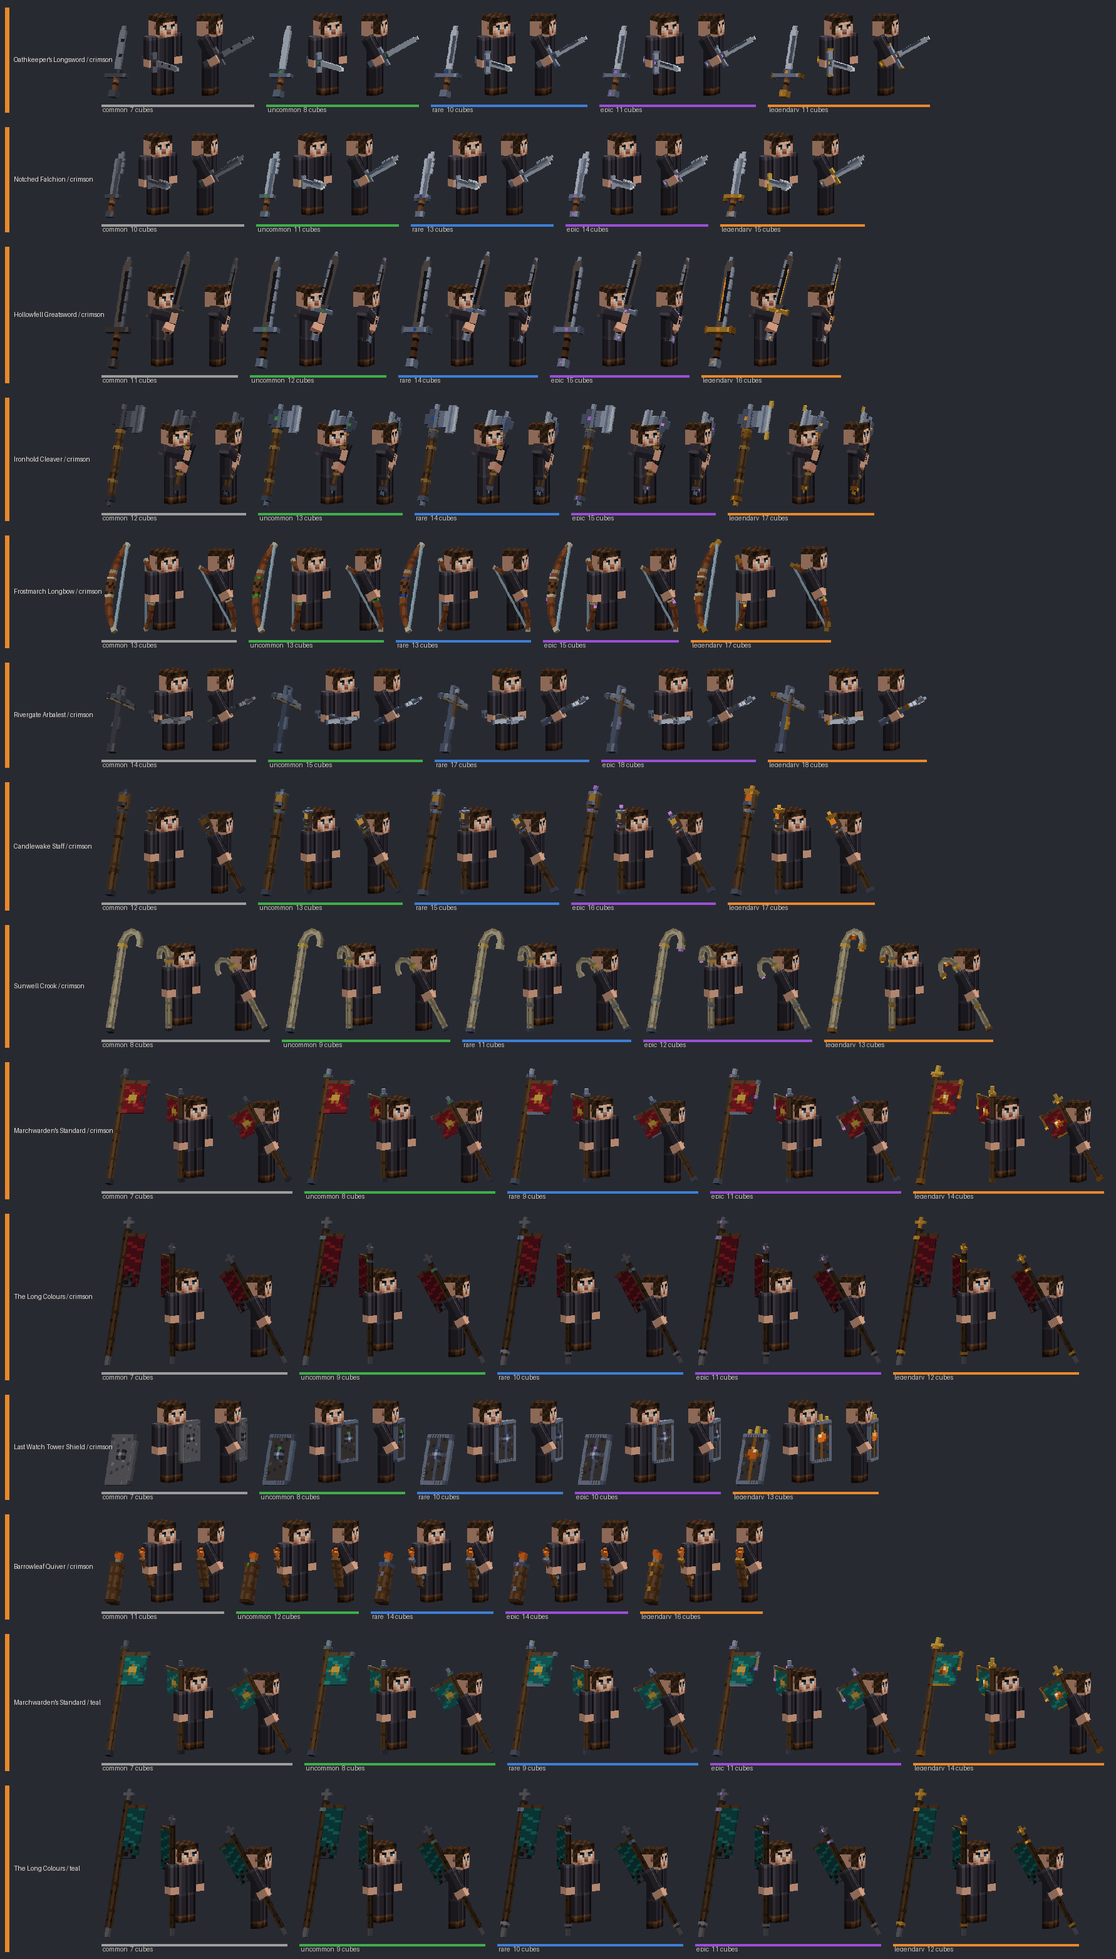
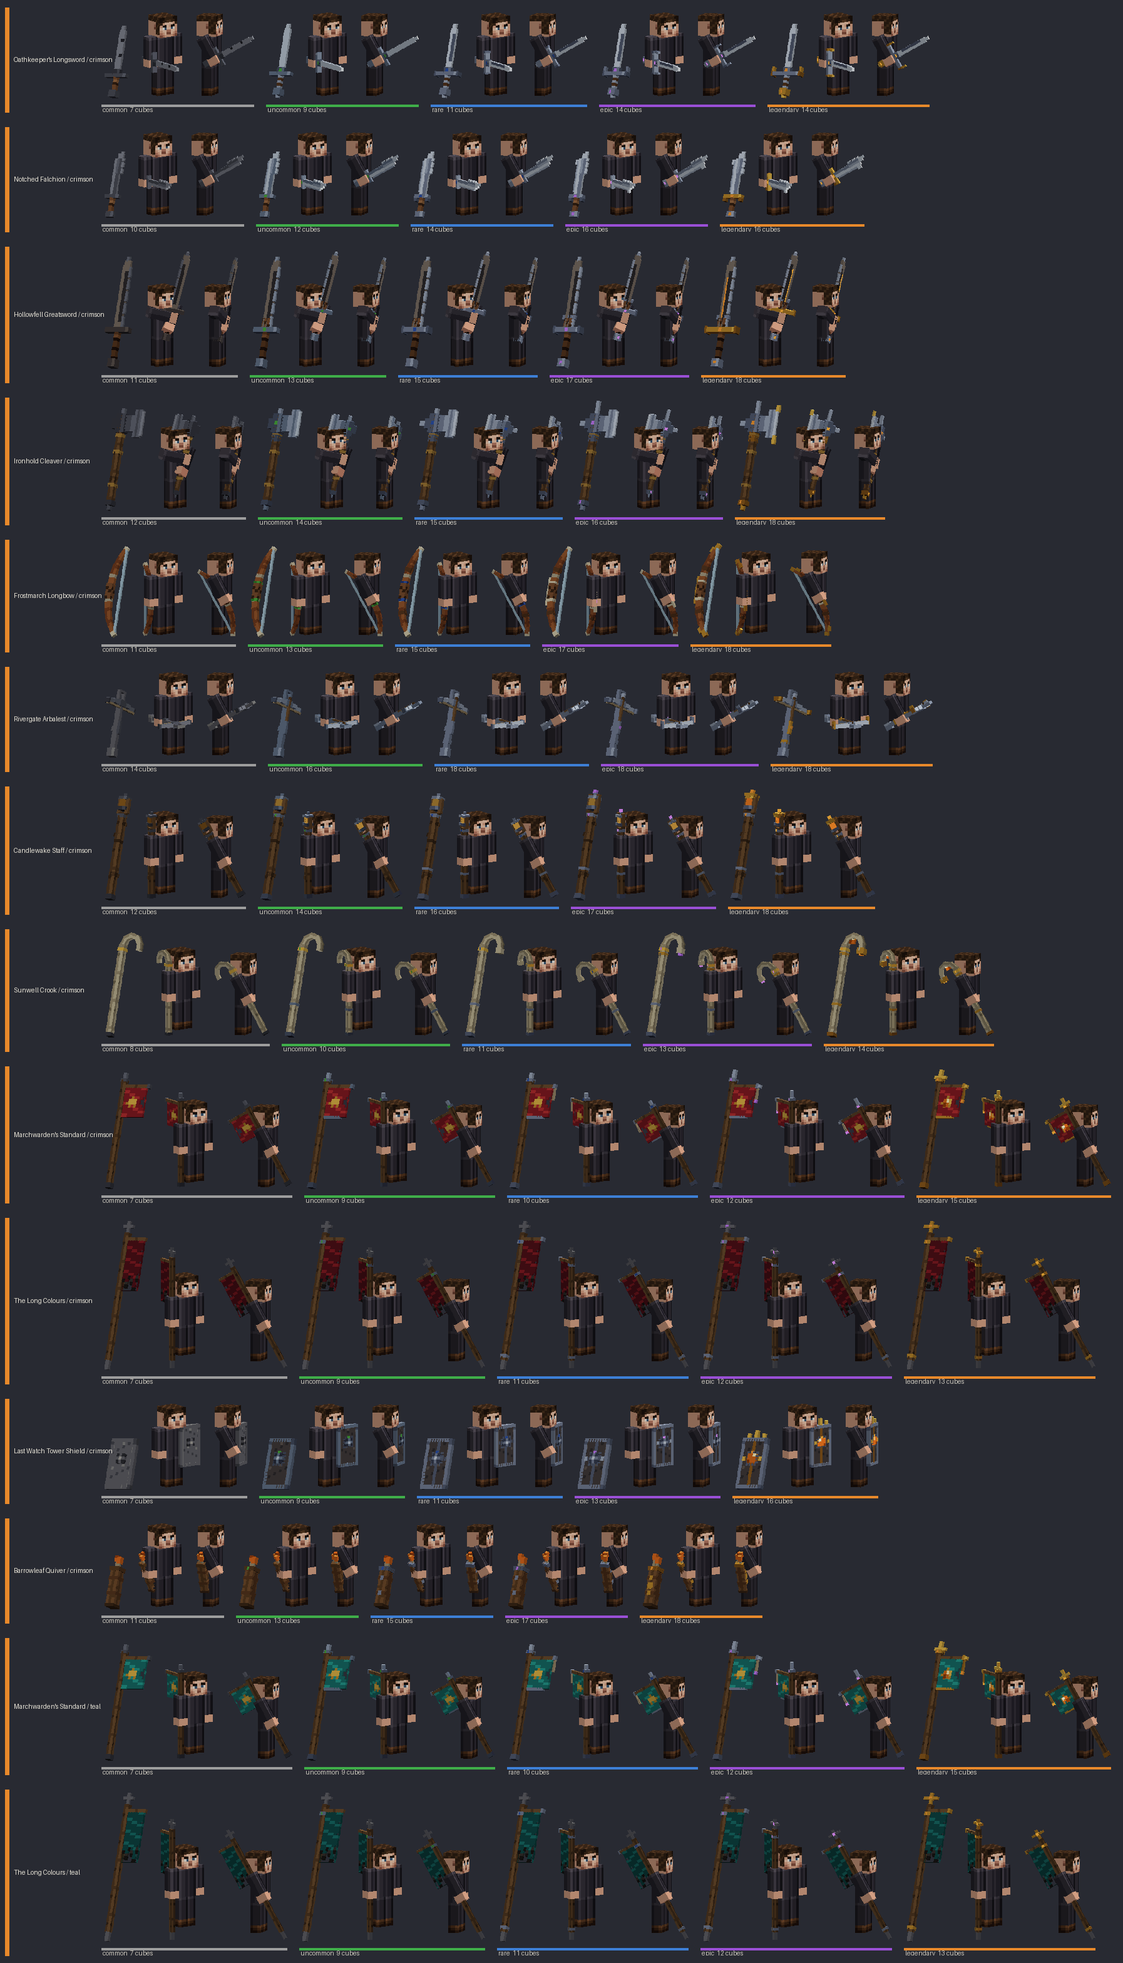
Give every weapon one change in build per rarity step, and lift the dark greatsword, crossbow and colours pole
Following the weapon art review: each tier now adds a wrap, guard, plate, spike or fitting
instead of only a colour, and test_tiers_change_shape checks adjacent tiers differ in shape.

diff --git a/art/hand/gear/weapons/crossbow.py b/art/hand/gear/weapons/crossbow.py
@@ -7,8 +7,8 @@ def make(r, side):
     M, F = metal_of(r), fit_of(r)
     S = IRON if r == COMMON else M
     z1, z2 = (4.5, 7) if r < LEGEND else (5, 8)
-    c = [Cube("stock", [-0.8, -5, -0.7], [0.8, 10, 0.7], "iron", tone(S, 2)),
-         Cube("butt", [-1.5, -7.5, -1], [1.2, -4.95, 1], "iron", tone(S, 2)),
+    c = [Cube("stock", [-0.8, -5, -0.7], [0.8, 10, 0.7], "iron", tone(S, 3)),
+         Cube("butt", [-1.5, -7.5, -1], [1.2, -4.95, 1], "iron", tone(S, 3)),
          Cube("lock", [0.75, 0, -0.5], [1.4, 4.05, 0.5], "steel", tone(F, 3)),
          Cube("trigger", [-1.6, 1, -0.3], [-0.75, 2.5, 0.3], "iron", tone(S, 3, lead=False)),
          Cube("prod", [-1, 9, -1.5], [1.2, 11, 1.5], "steel", tone(M, 3))]
@@ -16,16 +16,16 @@ def make(r, side):
         zz = lambda a, b: (min(s * a, s * b), max(s * a, s * b))
         a, b = zz(1.45, z1); c.append(Cube("limb1" + n, [-0.6, 9.4, a], [0.8, 10.6, b], "steel", tone(M, 4)))
         a, b = zz(z1 - 0.05, z2); c.append(Cube("limb2" + n, [-0.5, 9.0, a], [0.7, 10.2, b], "steel", tone(M, 4)))
-        a, b = zz(z2 - 0.05, z2 + 0.6); c.append(Cube("cap" + n, [-0.7, 8.6, a], [0.9, 9.9, b], "steel", tone(F, 2)))
+        a, b = zz(z2 - 0.05, z2 + 0.6); c.append(Cube("cap" + n, [-0.7, 8.6, a], [0.9 if r < EPIC else 2.2, 9.9, b], "steel", tone(F, 2)))
     c.append(Cube("string", [0.1, 8.3, -z2 - 0.3], [0.7, 8.9, z2 + 0.3], "cloth", tone(LINEN, 2, lead=False)))
     c += [Cube("stir_f", [-0.5, 13.5, -1.6], [0.5, 14.2, 1.6], "iron", tone(S, 3, lead=False)),
           Cube("stir_l", [-0.5, 10.95, 1.0], [0.5, 14.2, 1.6], "iron", tone(S, 3, lead=False)),
           Cube("stir_r", [-0.5, 10.95, -1.6], [0.5, 14.2, -1.0], "iron", tone(S, 3, lead=False))]
+    if r >= UNCOMMON: c.append(Cube("bolt", [0.75, 4, -0.3], [1.35, 12, 0.3], "wood", grain(OAK, 3)))
     if r >= RARE:
-        c += [Cube("bolt", [0.75, 4, -0.3], [1.35, 12, 0.3], "wood", grain(OAK, 3)),
-              Cube("bolt_head", [0.6, 11.95, -0.5], [1.5, 13.2, 0.5], "steel", tone(M, 4, lead=False))]
-    c += bead("bead", [-0.4, 9.6, -1.7], [0.6, 10.4, 1.7], r)
-    if r >= EPIC: c += bead("lock_gem", [1.3, 1.5, -0.4], [1.7, 2.5, 0.4], r)
+        c += [Cube("bolt_head", [0.6, 11.95, -0.5], [1.5, 13.2, 0.5], "steel", tone(M, 4, lead=False)),
+              Cube("brace", [-0.95, -3.2, -0.85], [0.95, -2.2, 0.85], "iron", tone(F, 3, lead=False))]
+    c += bead("bead", [-0.4, 9.6, -1.7], [0.6, 10.4, 1.7], r) if r < EPIC else bead("lock_gem", [1.3, 1.5, -0.4], [1.7, 2.5, 0.4], r)
     return c
 
 def weapon(): return Weapon("crossbow", make, "blade", note="short iron stock, thick steel limbs, stirrup at the front")

diff --git a/art/hand/gear/weapons/hunting_bow.py b/art/hand/gear/weapons/hunting_bow.py
@@ -13,15 +13,23 @@ def make(r, side):
     c = [Cube("grip", [-1, -2.5, -1], [1, 2.5, 1], "leather", wound(LEATH, 2))]
     c += chain("up", (0, 2.45), LEN, LEAN, WIDE, 1.2, "wood", paints); tx, ty = chain.end
     c += chain("dn", (0, 2.45), LEN, LEAN, WIDE, 1.2, "wood", paints, mirror=True)
-    c += [Cube("collar_u", [-1.15, 2.4, -0.8], [1.15, 3.2, 0.8], "bone", col),
-          Cube("collar_d", [-1.15, -3.2, -0.8], [1.15, -2.4, 0.8], "bone", col)]
+    if r >= UNCOMMON:
+        c += [Cube("collar_u", [-1.15, 2.4, -0.8], [1.15, 3.2, 0.8], "bone", col),
+              Cube("collar_d", [-1.15, -3.2, -0.8], [1.15, -2.4, 0.8], "bone", col)]
+    if r >= RARE:
+        for seg in (c[2], c[6]):
+            cx, cy = seg.pivot[0], seg.pivot[1]
+            c.append(Cube(seg.name + "_wrap", [cx - 1.15, cy - 0.7, -0.75], [cx + 1.15, cy + 0.7, 0.75], "bone",
+                          bands(BONEM, 2, 2, LEATH, 2), turn=seg.turn, pivot=[cx, cy, 0]))
+    if r >= EPIC:
+        c.append(Cube("plate", [-1.6, -4.5, -0.6], [-0.95, 4.5, 0.6], "gilt" if r == LEGEND else "bone",
+                      tone(GOLD if r == LEGEND else BONEM, 3, lead=False)))
     T, up = (GOLD, 1.6) if r == LEGEND else (BONEM, 0.9)
     c += [Cube("nock_u", [tx - 0.75, ty - 0.6, -0.6], [tx + 0.6, ty + up, 0.6], "bone", tone(T, 3, lead=False), turn=-34, pivot=[tx, ty, 0]),
           Cube("nock_d", [tx - 0.75, -ty - up, -0.6], [tx + 0.6, -ty + 0.6, 0.6], "bone", tone(T, 3, lead=False), turn=34, pivot=[tx, -ty, 0])]
     sx = tx + 0.25
     c.append(Cube("string", [sx - 0.3, -ty, -0.3], [sx + 0.3, ty, 0.3], "cloth", tone(FROST, 1, lead=False)))
-    if r >= EPIC:
-        c += bead("gem_u", [-1.35, 3.6, -0.5], [-0.75, 4.6, 0.5], r) + bead("gem_d", [-1.35, -4.6, -0.5], [-0.75, -3.6, 0.5], r)
+    if r == EPIC: c += bead("gem", [-1.85, -0.6, -0.4], [-1.55, 0.6, 0.4], r)
     if r == LEGEND:
         c += [Cube("horn_u", [tx - 1.5, ty - 2.2, -0.5], [tx - 0.6, ty - 0.4, 0.5], "gilt", tone(GOLD, 3, lead=False), turn=-34, pivot=[tx, ty, 0]),
               Cube("horn_d", [tx - 1.5, -ty + 0.4, -0.5], [tx - 0.6, -ty + 2.2, 0.5], "gilt", tone(GOLD, 3, lead=False), turn=34, pivot=[tx, -ty, 0])]

diff --git a/art/hand/gear/weapons/greatsword.py b/art/hand/gear/weapons/greatsword.py
@@ -6,19 +6,23 @@ from last_watch import BLACK
 def make(r, side):
     F = BLACK if r == COMMON else fit_of(r)
     E = metal_of(r)
+    g = 5.4 if r == LEGEND else 4.5
     c = [Cube("pommel", [-1.3, -9.5, -1.3], [1.3, -6.95, 1.3], "iron", tone(BLACK if r == COMMON else metal_of(r), 3)),
          Cube("grip", [-0.7, -7.05, -0.7], [0.7, 2.05, 0.7], "leather", wound(LEATH, 1, rub=1)),
-         Cube("guard", [-4.5, 2, -1], [4.5, 3.5, 1], "iron", tone(F, 3)),
-         Cube("blade", [-1.5, 3.45, -0.5], [1, 24.05, 0.5], "iron", blade(BLACK, 3, fuller=True)),
-         Cube("point", [-1.1, 24, -0.4], [1.1, 25.6, 0.4], "iron", blade(BLACK, 3)),
+         Cube("guard", [-g, 2, -1], [g, 3.5, 1], "iron", tone(F, 3)),
+         Cube("blade", [-1.5, 3.45, -0.5], [1, 24.05, 0.5], "iron", blade(BLACK, 4, fuller=True)),
+         Cube("point", [-1.1, 24, -0.4], [1.1, 25.6, 0.4], "iron", blade(BLACK, 4)),
          Cube("tip", [-0.5, 25.55, -0.3], [0.5, 27, 0.3], "steel", tone(E, 4, lead=False))]
     for i, a in enumerate((4, 8.3, 12.3, 16.3, 20.3)):
         c.append(Cube("edge%d" % i, [0.95, a, -0.35], [1.6, a + 3.2, 0.35], "steel", tone(E, 4, lead=False)))
+    if r >= UNCOMMON: c.append(Cube("ricasso", [-1.7, 3.45, -0.65], [1.2, 6.5, 0.65], "leather", wound(LEATH, 2)))
     if r >= RARE:
-        c += [Cube("end_l", [-5.1, 1.7, -1.2], [-4.45, 3.8, 1.2], "iron", tone(F, 2)),
-              Cube("end_r", [4.45, 1.7, -1.2], [5.1, 3.8, 1.2], "iron", tone(F, 2))]
+        c += [Cube("end_l", [-g - 0.6, 1.7, -1.2], [-g + 0.05, 3.8, 1.2], "iron", tone(F, 2)),
+              Cube("end_r", [g - 0.05, 1.7, -1.2], [g + 0.6, 3.8, 1.2], "iron", tone(F, 2))]
     c += bead("bead", [-0.5, 2.3, -1.2], [0.5, 3.2, 1.2], r)
-    if r >= EPIC: c += bead("pommel_gem", [-0.5, -8.8, -1.45], [0.5, -7.8, 1.45], r)
+    if r >= EPIC:
+        c.append(Cube("lugs", [-2.6, 6.45, -0.4], [2.1, 7.6, 0.4], "iron", tone(E, 3, lead=False)))
+        c += bead("pommel_gem", [-0.5, -8.8, -1.45], [0.5, -7.8, 1.45], r)
     if r == LEGEND: c.append(Cube("inlay", [-0.75, 6, -0.6], [0.05, 20, 0.6], "gem", tone(SUN, 2, lead=False), lit=W.FACES))
     return c
 

diff --git a/art/hand/gear/weapons/mending_staff.py b/art/hand/gear/weapons/mending_staff.py
@@ -11,15 +11,16 @@ def make(r, side):
          Cube("knot1", [-0.5, -8, -1.25], [1.3, -6.8, 1.25], "wood", grain(OAK, 2, salt=5)),
          Cube("knot2", [-1.3, 9, -0.6], [1.25, 10, 1.3], "wood", grain(OAK, 2, salt=1)),
          Cube("ferrule", [-1.2, -15.5, -1.2], [1.2, -13.95, 1.2], "iron", tone(metal_of(r), 2)),
-         Cube("tine_l", [-2, 12.95, -0.6], [-0.95, 17.6, 0.6], "wood", grain(OAK, 3, salt=2)),
-         Cube("tine_r", [0.95, 12.95, -0.6], [2, 17.6, 0.6], "wood", grain(OAK, 3, salt=6)),
+         Cube("tine_l", [-2, 12.95, -0.6], [-0.95, 17.6 if r < EPIC else 19, 0.6], "wood", grain(OAK, 3, salt=2)),
+         Cube("tine_r", [0.95, 12.95, -0.6], [2, 17.6 if r < EPIC else 19, 0.6], "wood", grain(OAK, 3, salt=6)),
          Cube("collar", [-1.2, 11.5, -1.2], [1.2, 12.5, 1.2], "iron", tone(metal_of(r), 3)),
          Cube("base", [-1.5, 14, -1.5], [1.5, 15, 1.5], "iron", tone(metal_of(r), 2)),
          Cube("glass", [-1.1, 14.95, -1.1], [1.1, 17.55, 1.1], "gem", tone(G, 2 if r > COMMON else 1, lead=False), lit=W.FACES if r > COMMON else ()),
          Cube("cap", [-1.5, 17.5, -1.5], [1.5, 18.3, 1.5], "iron", tone(F, 3)),
          Cube("ring", [-0.4, 18.25, -0.3], [0.4, 19.5, 0.3], "iron", tone(F, 3, lead=False))]
+    if r >= UNCOMMON: c.append(Cube("cage_a", [-0.25, 15, -1.25], [0.25, 17.55, 1.25], "iron", tone(F, 1, lead=False)))
     if r >= RARE:
-        c += [Cube("cage_a", [-0.25, 15, -1.25], [0.25, 17.55, 1.25], "iron", tone(F, 1, lead=False)),
+        c += [Cube("band", [-1.2, -6, -1.2], [1.2, -5.2, 1.2], "iron", tone(metal_of(r), 3, lead=False)),
               Cube("cage_b", [-1.25, 15, -0.25], [1.25, 17.55, 0.25], "iron", tone(F, 1, lead=False))]
     c += bead("bead", [-0.5, 11.7, -1.4], [0.5, 12.3, 1.4], r)
     if r >= EPIC: c += bead("finial", [-0.5, 19.45, -0.5], [0.5, 20.5, 0.5], r)

diff --git a/art/hand/gear/weapons/long_colours.py b/art/hand/gear/weapons/long_colours.py
@@ -15,15 +15,16 @@ def char(x, y, w, h):
 def make(r, side):
     F = IRON if r == COMMON else fit_of(r)
     X = GOLD if r == LEGEND else IRON
-    c = [Cube("pole", [-0.8, -16, -0.8], [0.8, 26, 0.8], "wood", grain(OAK, 2)),
+    c = [Cube("pole", [-0.8, -16, -0.8], [0.8, 26, 0.8], "wood", grain(OAK, 3)),
          Cube("spike", [-0.6, -19, -0.6], [0.6, -15.95, 0.6], "iron", tone(IRON, 3)),
          Cube("spike_tip", [-0.25, -20.5, -0.25], [0.25, -18.95, 0.25], "iron", tone(IRON, 4, lead=False)),
-         Cube("crossbar", [0.75, 23.5, -0.5], [7.5, 24.5, 0.5], "wood", grain(OAK, 2, salt=4)),
+         Cube("crossbar", [0.75, 23.5, -0.5], [7.5, 24.5, 0.5], "wood", grain(OAK, 3, salt=4)),
          Cube("flag", [0.85, 7, -0.3], [7, 23.55, 0.3], "cloth", cloth(side, 1, cut=tatter, device=char)),
          Cube("cross", [-0.4, 25.95, -0.4], [0.4, 30, 0.4], "iron", tone(X, 3, lead=False)),
-         Cube("cross_bar", [-1.8, 27.8, -0.45], [1.8, 28.6, 0.45], "iron", tone(X, 3, lead=False))]
+         Cube("cross_bar", [-1.8 if r < EPIC else -2.6, 27.8, -0.45], [1.8 if r < EPIC else 2.6, 28.6, 0.45], "iron", tone(X, 3, lead=False))]
     if r >= UNCOMMON: c.append(Cube("collar", [-1, 22.4, -1], [1, 23.45, 1], "iron", tone(F, 3)))
-    if r >= RARE: c.append(Cube("collar_lo", [-1, -15.2, -1], [1, -14.2, 1], "iron", tone(F, 3)))
+    if r >= RARE: c += [Cube("collar_lo", [-1, -15.2, -1], [1, -14.2, 1], "iron", tone(F, 3)),
+                        Cube("bar_cap", [7.45, 23.3, -0.7], [8.2, 24.7, 0.7], "iron", tone(F, 3, lead=False))]
     c += bead("bead", [-0.4, 22.6, -1.2], [0.4, 23.3, 1.2], r)
     if r >= EPIC: c += bead("cross_gem", [-0.5, 27.7, -0.55], [0.5, 28.7, 0.55], r)
     if r == LEGEND: c.append(Cube("fringe", [0.85, 23.2, -0.35], [7, 23.6, 0.35], "gilt", tone(GOLD, 4, lead=False)))

diff --git a/art/hand/gear/weapons/arming_sword.py b/art/hand/gear/weapons/arming_sword.py
@@ -8,17 +8,21 @@ def make(r, side):
     g = 5 if r == LEGEND else 4
     nicks = (3, 8) if r == COMMON else ()
     c = [Cube("pommel", [-1.2, -4.5, -1.2], [1.2, -2.45, 1.2], "steel", tone(F, 3)),
-         Cube("grip", [-0.6, -2.5, -0.6], [0.6, 2.05, 0.6], "leather", wound(LEATH, 2, rub=1)),
+         Cube("grip", [-0.6, -2.5, -0.6], [0.6, 2.05, 0.6], "leather", wound(LEATH, 2, rub=1) if r == COMMON else bands(LEATH, 2, 2, M, 4)),
          Cube("guard", [-g, 2, -0.9], [g, 3, 0.9], "steel", tone(M, 3)),
          Cube("seat", [-1.3, 2.95, -0.7], [1.3, 4.55, 0.7], "steel", tone(M, 2)),
          Cube("blade", [-1, 4.5, -0.45], [1, 17.55, 0.45], "steel", blade(M, 4, fuller=r >= RARE, nicks=nicks)),
          Cube("point", [-0.6, 17.5, -0.35], [0.6, 19.05, 0.35], "steel", blade(M, 4)),
          Cube("tip", [-0.2, 19, -0.2], [0.2, 20, 0.2], "steel", tone(M, 5, lead=False))]
+    if r >= UNCOMMON: c.append(Cube("nut", [-0.5, -5.3, -0.5], [0.5, -4.45, 0.5], "steel", tone(F, 4, lead=False)))
     if r >= RARE:
         c += [Cube("end_l", [-g - 0.6, 1.8, -1.1], [-g + 0.05, 3.2, 1.1], "steel", tone(F, 2)),
               Cube("end_r", [g - 0.05, 1.8, -1.1], [g + 0.6, 3.2, 1.1], "steel", tone(F, 2))]
     c += bead("bead", [-0.5, 3.2, -0.8], [0.5, 4.2, 0.8], r)
-    if r >= EPIC: c += bead("pommel_gem", [-0.5, -4.0, -1.3], [0.5, -3.0, 1.3], r)
+    if r >= EPIC:
+        c += [Cube("sweep_l", [-g - 0.6, 3.15, -0.6], [-g + 0.05, 4.8, 0.6], "steel", tone(F, 3, lead=False)),
+              Cube("sweep_r", [g - 0.05, 3.15, -0.6], [g + 0.6, 4.8, 0.6], "steel", tone(F, 3, lead=False))]
+        c += bead("pommel_gem", [-0.5, -4.0, -1.3], [0.5, -3.0, 1.3], r)
     return c
 
 def weapon(): return Weapon("arming_sword", make, "blade", note="straight double edge, long cross, wheel pommel")

diff --git a/art/hand/gear/weapons/war_banner.py b/art/hand/gear/weapons/war_banner.py
@@ -18,11 +18,12 @@ def make(r, side):
          Cube("bar_cap", [9.45, 17.3, -0.7], [10.2, 18.7, 0.7], "iron", tone(F, 3, lead=False)),
          Cube("flag", [0.85, 8, -0.3], [9, 17.55, 0.3], "cloth", cloth(side, 2, device=sun, cut=tail)),
          Cube("socket", [-1, 19.5, -1], [1, 20.5, 1], "iron", tone(F, 3)),
-         Cube("finial", [-0.5, 20.45, -0.5], [0.5, 22.5 if r < LEGEND else 23.5, 0.5], "steel", tone(F, 4, lead=False))]
-    if r >= RARE: c.append(Cube("hem", [0.85, 7.4, -0.35], [7.2, 8.05, 0.35], "cloth", tone(F, 3, lead=False)))
+         Cube("finial", [-0.5, 20.45, -0.5], [0.5, 22.5 if r < EPIC else 23.5, 0.5], "steel", tone(F, 4, lead=False))]
+    if r >= UNCOMMON: c.append(Cube("hem", [0.85, 7.4, -0.35], [7.2, 8.05, 0.35], "cloth", tone(F, 3, lead=False)))
     c += bead("bead", [-0.4, 19.6, -1.2], [0.4, 20.4, 1.2], r)
+    if r >= RARE: c.append(Cube("tassel", [9.6, 13.5, -0.3], [10.1, 17.35, 0.3], "cloth", tone(GOLD if r == LEGEND else LINEN, 3, lead=False)))
     if r >= EPIC:
-        c.append(Cube("tassel", [9.6, 13.5, -0.3], [10.1, 17.35, 0.3], "cloth", tone(GOLD if r == LEGEND else LINEN, 3, lead=False)))
+        c.append(Cube("bar_knob", [10.15, 17.5, -0.5], [11, 18.5, 0.5], "iron", tone(F, 4, lead=False)))
         c += bead("tassel_gem", [9.45, 12.6, -0.4], [10.25, 13.55, 0.4], r)
     if r == LEGEND:
         c += [Cube("wing_l", [-2.2, 20.45, -0.3], [-0.45, 21.4, 0.3], "gilt", tone(GOLD, 4, lead=False)),

diff --git a/art/hand/gear/weapons/quiver.py b/art/hand/gear/weapons/quiver.py
@@ -12,12 +12,14 @@ def make(r, side):
          Cube("cap", [-1.7, -6.8, -1.7], [1.7, -5.95, 1.7], "hide", tone(HIDE, 1, lead=False)),
          Cube("strap0", [-1.65, 2, -1.65], [1.65, 3, 1.65], "leather", tone(LEATH, 2, lead=False)),
          Cube("strap1", [-1.65, -3, -1.65], [1.65, -2, 1.65], "leather", tone(LEATH, 2, lead=False))]
-    for i, (x, z, top) in enumerate(ARROWS[:4 if r == LEGEND else 3]):
+    for i, (x, z, top) in enumerate(ARROWS[:4 if r >= EPIC else 3]):
         c += [Cube("shaft%d" % i, [x - 0.3, 6.1, z - 0.3], [x + 0.3, top - 1.9, z + 0.3], "wood", tone(ASHW, 2, lead=False)),
               Cube("fletch%d" % i, [x - 0.6, top - 2, z - 0.6], [x + 0.6, top, z + 0.6], "cloth", grain(FEATHER, 2, salt=i))]
+    if r >= UNCOMMON: c.append(Cube("belt", [1.45, -4.5, -0.6], [1.9, 4.5, 0.6], "leather", tone(LEATH, 2, lead=False)))
     if r >= RARE:
         c += [Cube("buckle0", [-0.6, 1.8, -1.95], [0.6, 3.2, -1.6], "iron", tone(F, 3, lead=False)),
               Cube("buckle1", [-0.6, -3.2, -1.95], [0.6, -1.8, -1.6], "iron", tone(F, 3, lead=False))]
+    if r == LEGEND: c.append(Cube("badge", [-0.9, -1.2, -1.85], [0.9, 0.8, -1.45], "gilt", tone(GOLD, 3, lead=False)))
     c += bead("bead", [-0.5, 5.2, -2.05], [0.5, 6.0, -1.75], r)
     return c
 

diff --git a/art/hand/gear/weapons/falchion.py b/art/hand/gear/weapons/falchion.py
@@ -14,12 +14,14 @@ def make(r, side):
          Cube("tip", [0.9, 16.55, -0.25], [1.8, 17.4, 0.25], "steel", tone(M, 5, lead=False))]
     for i, (a, b) in enumerate(((10.2, 11.6), (12.4, 13.7), (14.4, 15.1))):
         c.append(Cube("edge%d" % i, [1.75, a, -0.3], [2.35, b, 0.3], "steel", tone(M, 5, lead=False)))
+    if r >= UNCOMMON: c.append(Cube("spine", [-1.6, 4, -0.3], [-0.95, 14.2, 0.3], "steel", tone(M, 4, lead=False)))
     if r >= RARE:
         c += [Cube("quillon_l", [-g - 0.05, 1.0, -0.6], [-g + 0.85, 2.05, 0.6], "steel", tone(F, 2)),
               Cube("quillon_r", [g - 0.85, 1.0, -0.6], [g + 0.05, 2.05, 0.6], "steel", tone(F, 2))]
     c += bead("bead", [-0.5, 2.2, -0.9], [0.5, 2.8, 0.9], r)
-    if r >= EPIC: c += bead("pommel_gem", [-0.5, -3.8, -0.65], [0.5, -2.8, 0.65], r)
-    if r == LEGEND: c.append(Cube("spine", [-1.6, 11, -0.3], [-0.95, 14.2, 0.3], "steel", tone(M, 4, lead=False)))
+    if r >= EPIC:
+        c.append(Cube("hook", [-2.3, 13.2, -0.3], [-0.95, 14.6, 0.3], "steel", tone(M, 5, lead=False)))
+        c += bead("pommel_gem", [-0.5, -3.8, -0.65], [0.5, -2.8, 0.65], r)
     return c
 
 def weapon(): return Weapon("falchion", make, "blade", note="single edge widening to a clipped point, three notched edge lengths")

diff --git a/art/hand/gear/weapons/sunwell_crook.py b/art/hand/gear/weapons/sunwell_crook.py
@@ -10,10 +10,12 @@ def make(r, side):
          Cube("ferrule", [-1.1, -16, -1.1], [1.1, -14.95, 1.1], "iron", tone(F, 2))]
     c += chain("hook", (0, 14), (2.4, 2.4, 2.4, 2.4, 2.0), (25, 65, 110, 150, 180), (1.6, 1.6, 1.5, 1.4, 1.3), 1.6, "wood", grain(ASHW, 3, salt=3))
     ex, ey = chain.end
+    if r >= UNCOMMON: c.append(Cube("ring2", [-1.1, -6, -1.1], [1.1, -5.2, 1.1], "iron", tone(F, 3, lead=False)))
+    k = 1.25 if r == LEGEND else 0.9
     if r >= RARE:
-        c += [Cube("knob", [ex - 0.9, ey - 0.9, -0.95], [ex + 0.9, ey + 0.6, 0.95], "wood", tone(F if r == LEGEND else ASHW, 3)),
-              Cube("ring2", [-1.1, -6, -1.1], [1.1, -5.2, 1.1], "iron", tone(F, 3, lead=False))]
+        c += [Cube("knob", [ex - k, ey - k, -0.95], [ex + k, ey + 0.6, 0.95], "wood", tone(F if r == LEGEND else ASHW, 3))]
     c += bead("bead", [-0.4, 12.2, -1.3], [0.4, 12.8, 1.3], r)
+    if r >= EPIC: c.append(Cube("ring3", [-1.05, 10.6, -1.05], [1.05, 11.4, 1.05], "gilt", tone(GOLD, 3, lead=False)))
     if r >= EPIC: c += bead("hook_gem", [ex - 0.5, ey - 1.6, -0.5], [ex + 0.5, ey - 0.85, 0.5], r)
     if r == LEGEND: c.append(Cube("sun", [1.5, 14.6, -0.3], [3.6, 16.8, 0.3], "gem", stone(SUN), lit=W.FACES))
     return c

diff --git a/art/hand/gear/weapons/kite_shield.py b/art/hand/gear/weapons/kite_shield.py
@@ -25,9 +25,13 @@ def make(r, side):
          Cube("rim_r", [3.8, -7.25, -1.3], [4.8, 7.25, 0.1], "iron", dented(F, 3)),
          Cube("boss", [-1.5, 0, -1.9], [1.5, 3, -0.95], "iron", W.ring(G[1], G[3], G[5]) if r < LEGEND else stone(SUN), lit=W.FACES if r == LEGEND else ()),
          Cube("strap", [-2.5, -1, -0.05], [2.5, 1, 0.6], "leather", wound(LEATH, 2))]
+    if r >= UNCOMMON: c.append(Cube("plate", [-2.2, -0.7, -1.2], [2.2, 3.7, -0.95], "iron", tone(F, 2, lead=False)))
     if r >= RARE:
         c += [Cube("spine", [-0.5, -7.25, -1.25], [0.5, 7.25, -0.95], "iron", tone(G, 2, lead=False)),
               Cube("bar", [-3.85, 1.0, -1.2], [3.85, 2.0, -0.95], "iron", tone(G, 2, lead=False))]
+    if r >= EPIC:
+        c += [Cube("stud_l", [-3.6, 0.9, -1.6], [-2.6, 2.1, -1.15], "iron", tone(G, 4, lead=False)),
+              Cube("stud_r", [2.6, 0.9, -1.6], [3.6, 2.1, -1.15], "iron", tone(G, 4, lead=False))]
     c += bead("bead", [-0.5, 3.0, -1.6], [0.5, 3.9, -1.2], r)
     if r == LEGEND:
         c += [Cube("crest_c", [-0.6, 8.25, -1.0], [0.6, 11, -0.2], "gilt", tone(GOLD, 4, lead=False)),

diff --git a/art/hand/gear/weapons/great_axe.py b/art/hand/gear/weapons/great_axe.py
@@ -15,8 +15,9 @@ def make(r, side):
          Cube("head", [4.95, 8, -0.45], [7.5, 17, 0.45], "steel", blade(M, 3)),
          Cube("edge", [7.45, 8.5, -0.3], [8.1, 16.5, 0.3], "steel", tone(M, 5, lead=False)),
          Cube("poll", [-3.5, 11, -0.8], [-1.55, 14, 0.8], "iron", tone(M, 2)),
-         Cube("top", [-0.5, 15.45, -0.5], [0.5, 17.5, 0.5], "iron", tone(M, 4, lead=False))]
-    if r >= RARE: c.append(Cube("langets", [-1.05, 6.5, -1.05], [1.05, 9.55, 1.05], "iron", tone(F, 2)))
+         Cube("top", [-0.5, 15.45, -0.5], [0.5, 17.5 if r < EPIC else 20, 0.5], "iron", tone(M, 4, lead=False))]
+    if r >= UNCOMMON: c.append(Cube("langets", [-1.05, 6.5, -1.05], [1.05, 9.55, 1.05], "iron", tone(F, 2)))
+    if r >= RARE: c.append(Cube("poll_spike", [-5.6, 11.8, -0.45], [-3.45, 13.2, 0.45], "iron", tone(M, 4, lead=False)))
     c += bead("bead", [-0.5, 12, -1.5], [0.5, 13, 1.5], r)
     if r >= EPIC: c += bead("butt_gem", [-0.5, -14, -1.35], [0.5, -13.2, 1.35], r)
     if r == LEGEND:
